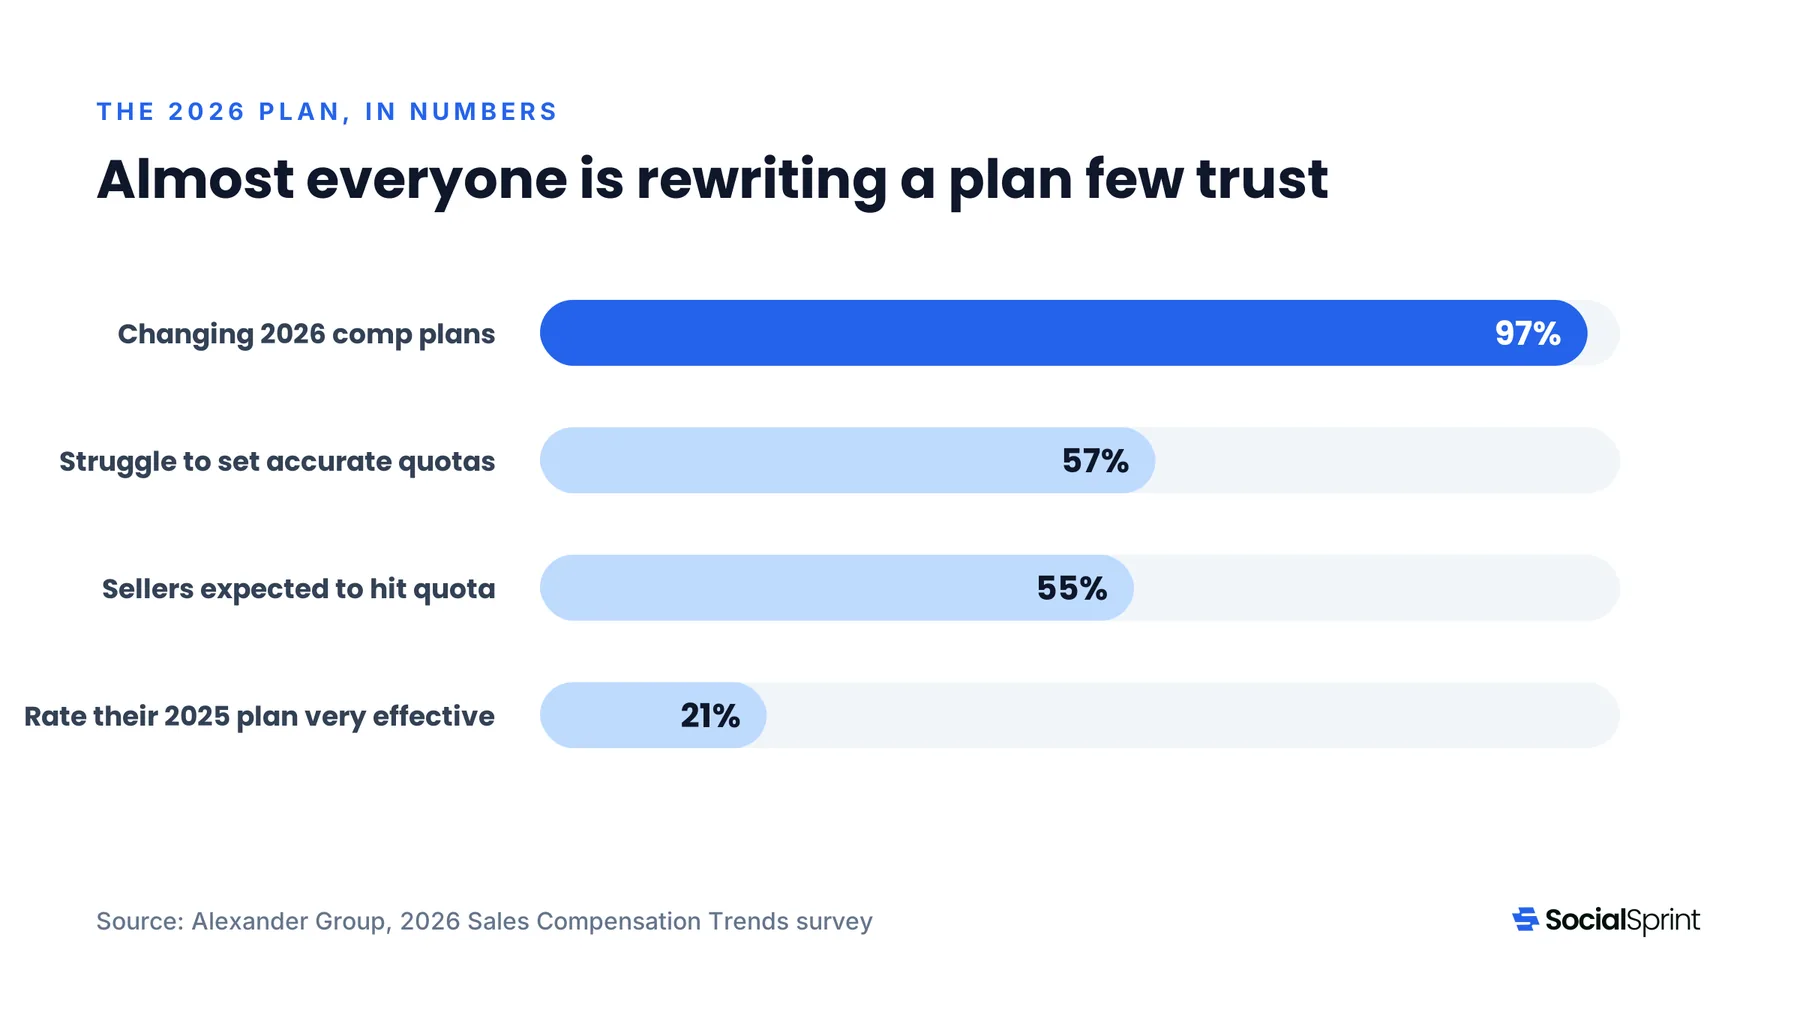
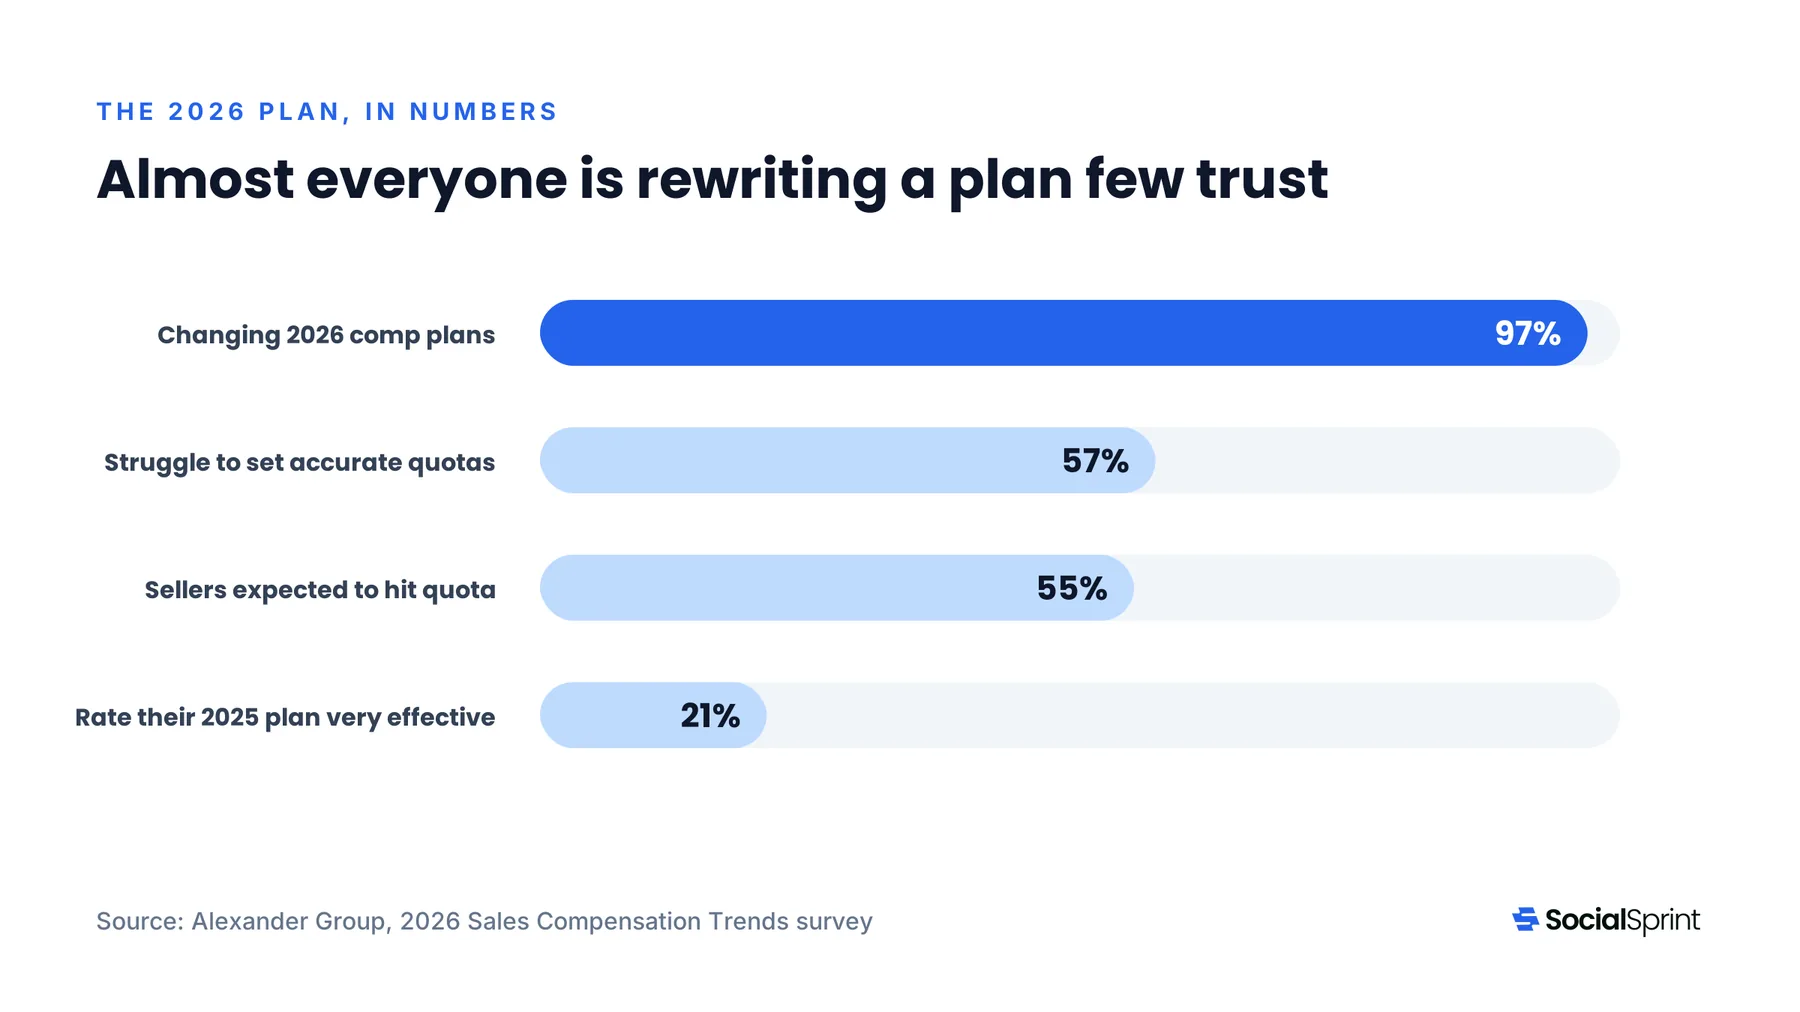
Kit fixes: one label size per bar chart, note spacing, end card 1200x675, pinned CDN URLs
Claude-Session: https://claude.ai/code/session_01JFNRbRkPWhPfD1YCm9JiMP

diff --git a/tools/kit.py b/tools/kit.py
@@ -133,10 +133,11 @@ def bars(v):
     size, hl = fit(v['headline'], 'P', 800, [36, 32], 1072, 1)
     b += T(64, 132, hl[0], 'P', 800, size, DARK)
     n = len(rows); step = min(100, 340 / n); y0 = 200 if n > 3 else 220
+    lab_size = next(z for z in (22, 20, 18, 16, 15, 14) if all(tw(r[0], 'P', 700, z) <= 290 for r in rows) or z == 14)
+    assert all(tw(r[0], 'P', 700, lab_size) <= 296 for r in rows), 'bar label too long'
     for i, row in enumerate(rows):
         lab, val = row[0], row[1]; disp = row[2] if len(row) > 2 else f'{val:g}{unit}'
         y = y0 + i * step; wv = 720 * val / mx; assert wv <= 720
-        lab_size = 22 if tw(lab, 'P', 700, 22) <= 300 else 18
         b += T(330, y + 29, lab, 'P', 700, lab_size, SLATE, 'end')
         b += f'<rect x="360" y="{y}" width="720" height="44" rx="22" fill="#F1F5F9"/>'
         top = i == 0 if v.get('highlight', 'first') == 'first' else val == max(r[1] for r in rows)
@@ -146,7 +147,7 @@ def bars(v):
         ax = 360 + 720 * v['avg']['value'] / mx; y1 = y0 + n * step - 10
         b += f'<line x1="{ax:.1f}" y1="{y0-14}" x2="{ax:.1f}" y2="{y1}" stroke="{DARK}" stroke-width="1.5" stroke-dasharray="6 6"/>'
         b += T(ax, y0 - 24, v['avg']['label'], 'I', 600, 16, SLATE, 'middle')
-    if v.get('note'): b += T(360, 560, v['note'], 'I', 400, 20, SLATE)
+    if v.get('note'): b += T(360, min(560, y0 + n * step + 40), v['note'], 'I', 400, 20, SLATE)
     b += source(v['source']) + wordmark(1006, 603)
     return svg(675, b, '#fff')
 
@@ -256,7 +257,7 @@ def analyser():
     b += '<g filter="url(#bl)"><rect x="686" y="448" width="400" height="14" rx="7" fill="#94A3B8"/><rect x="686" y="470" width="250" height="14" rx="7" fill="#94A3B8"/></g>'
     b += '<rect x="686" y="496" width="12" height="10" rx="2" fill="#64748B"/><path d="M688.5 496 v-3 a3.5 3.5 0 0 1 7 0 v3" fill="none" stroke="#64748B" stroke-width="2"/>'
     b += T(706, 506, '+3 more in the full report', 'I', 400, 14, MUTED)
-    return svg(600, b, BLUE)
+    return svg(675, f'<g transform="translate(0,37)">{b}</g>', BLUE)
 
 RENDER = {'bars': bars, 'people': people, 'big_stat': big_stat, 'framework': framework,
           'checklist': checklist, 'quote': quote}

diff --git a/tools/insert.py b/tools/insert.py
@@ -1,6 +1,6 @@
 """Insert kit visuals into an article's markdown.
 
-Usage: python3 tools/insert.py article.md OUTDIR SLUG > article_with_visuals.md
+Usage: python3 tools/insert.py article.md OUTDIR SLUG COMMIT_SHA > article_with_visuals.md
 Each visual goes after the first paragraph that follows its `after_heading` H2
 (matched case-insensitively, ignoring punctuation). The analyser card goes at
 the very end as a linked image. The hero is NOT inserted: it is the cover_image_url.
@@ -9,7 +9,8 @@ Exits non-zero if a heading cannot be found, so nothing is silently dropped.
 import json, re, sys
 
 REPO = 'aisocialsprint/socialsprint-assets'
-def url(slug, f): return f'https://cdn.jsdelivr.net/gh/{REPO}@main/blog/{slug}/{f}'
+REF = 'main'  # set to the commit SHA that added the files, so the CDN can never serve a stale copy
+def url(slug, f): return f'https://cdn.jsdelivr.net/gh/{REPO}@{REF}/blog/{slug}/{f}'
 def norm(s): return re.sub(r'[^a-z0-9 ]', '', s.lower()).strip()
 
 def insert(md, man, slug):
@@ -32,5 +33,6 @@ def insert(md, man, slug):
     return out
 
 if __name__ == '__main__':
+    if len(sys.argv) > 4: REF = sys.argv[4]
     md = open(sys.argv[1]).read(); man = json.load(open(f'{sys.argv[2]}/manifest.json'))
     print(insert(md, man, sys.argv[3]))
